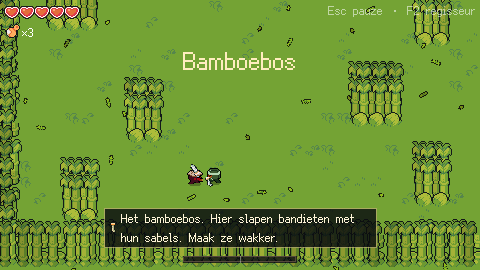
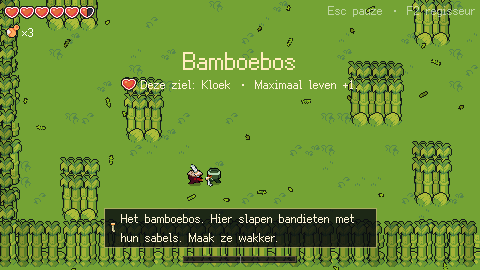
Starter perks: each new soul gets one minor seeded trait
Hale, Sturdy, Even Breath, Spare Sip or Steady Hand: weaker forms of existing upgrades,
picked from the soul's seed (as the tint is), using the upgrades' icons. Shown once under
the area title and listed in the run summary; en/nl/zh_CN; numbers in run.tres.
StarterPerks unit tests; run_continue checks both souls; run_bamboo and summary_loss
screens regenerated.

Claude-Session: https://claude.ai/code/session_01AfcAfqa33AD2jS3FNB8M79

Changed region(s): [[0.25, 0.2667, 0.5, 0.3556], [0.5312, 0.2963, 0.75, 0.3259], [0.1562, 0.0, 0.2188, 0.0889]]

diff --git a/game/scripts/scenarios/RunContinueScenario.cs b/game/scripts/scenarios/RunContinueScenario.cs
@@ -19,6 +19,26 @@ public partial class RunContinueScenario : Scenario
 
     protected override bool FailOnTimeout => true;
 
+    /// <summary>The soul has its seeded perk, applied, recorded and shown under the area title.</summary>
+    private void CheckPerk(string who)
+    {
+        var soulSeed = unchecked(_run.Plan.Seed * 7919 + (DirectorService.Instance?.SoulsFallen ?? 0));
+        Check(_run.Perk == StarterPerks.Pick(soulSeed), $"{who}'s perk is not the seeded one");
+        Check(_run.Stats.Perk == _run.Perk, $"{who}'s perk is not in the run's stats");
+        Check(_run.Hud.PerkShown && _run.Hud.PerkLine.Contains(Ui.PerkText.Name(_run.Perk)), $"{who}'s perk is not shown");
+        var m = _run.Player.Mods;
+        var applied = _run.Perk switch
+        {
+            StarterPerk.Hale => m.HealthBonus >= Tunables.Run.PerkHealth,
+            StarterPerk.Sturdy => m.PostureBonus >= Tunables.Run.PerkPosture,
+            StarterPerk.EvenBreath => m.PostureDrainFactor >= Tunables.Run.PerkBreathFactor - 0.001f,
+            StarterPerk.SpareSip => m.SipsBonus >= Tunables.Run.PerkSips,
+            _ => m.DeflectFactor >= Tunables.Run.PerkDeflectFactor - 0.001f,
+        };
+        Check(applied, $"{who}'s perk {_run.Perk} was not applied");
+        GD.Print($"  {who}: {_run.Hud.PerkLine}");
+    }
+
     protected override void Step(int frame)
     {
         switch (_stage)
@@ -35,6 +55,7 @@ public partial class RunContinueScenario : Scenario
                 Check(_run.Room is { Plan.Area: Area.Outside }, "did not start outside the tavern");
                 _firstTint = _run.Player.Tint;
                 Check(_firstTint != Colors.White, "the soul has no tint");
+                CheckPerk("the first soul");
                 _run.Player.Kill();
                 _stage = 2;
                 return;
@@ -42,6 +63,7 @@ public partial class RunContinueScenario : Scenario
                 if (_run.Summary == null) return;
                 Check(!_run.Stats.Won, "a death ended in a win");
                 Check(_run.Summary.Lines.Any(l => l.Contains(Tr("ui.area.outside"))), "the summary does not say where the next soul starts");
+                Check(_run.Summary.Lines.Any(l => l.Contains(Ui.PerkText.Name(_run.Perk))), "the summary does not list the soul's perk");
                 _run.Retry();
                 Check(RunScene.NextArea == Area.Outside, $"next area is {RunScene.NextArea}");
                 _run.QueueFree();
@@ -59,11 +81,13 @@ public partial class RunContinueScenario : Scenario
                 Check(_run.StepIndex == outsideStart, $"the new soul started at step {_run.StepIndex}, not {outsideStart}");
                 Check(_run.ContinuedFrom == Area.Outside, "the new soul does not know it continues");
                 Check(_run.Stats.Upgrades.SequenceEqual(new[] { Upgrade.Vitality }), "the upgrade was not kept");
-                Check(_run.Player.MaxHealth == Tunables.Player.MaxHealth + Tunables.Run.VitalityHealth, "Vitality's health is missing");
+                var perkHealth = _run.Perk == StarterPerk.Hale ? Tunables.Run.PerkHealth : 0;
+                Check(_run.Player.MaxHealth == Tunables.Player.MaxHealth + Tunables.Run.VitalityHealth + perkHealth, "Vitality's health is missing");
+                CheckPerk("the new soul");
                 Check(RunScene.NextArea == null, "the continuation was not consumed");
                 Check(_run.Player.Tint != _firstTint, "the new soul has the same tint as the last");
                 Check(Mathf.Min(_run.Player.Tint.R, Mathf.Min(_run.Player.Tint.G, _run.Player.Tint.B)) >= 1f - Tunables.Player.SoulTintStrength - 0.01f, "the tint is more than slight");
-                GD.Print($"  new soul at step {_run.StepIndex} ({_run.Room!.Plan.Template.Id}), upgrades {string.Join(",", _run.Stats.Upgrades)}");
+                GD.Print($"  new soul at step {_run.StepIndex} ({_run.Room!.Plan.Template.Id}), upgrades {string.Join(",", _run.Stats.Upgrades)}, perk {_run.Perk}");
                 Pass();
                 return;
         }

diff --git a/game/scripts/Ui/Hud.cs b/game/scripts/Ui/Hud.cs
@@ -21,6 +21,11 @@ public partial class Hud : CanvasLayer
 
     private Label _prompt = null!;
     private Label _area = null!;
+    private HBoxContainer _perk = null!;
+    private double _perkUntilMs;
+    /// <summary>The starter-perk line under the area title is on screen (tests).</summary>
+    public bool PerkShown => _perk.Visible;
+    public string PerkLine { get; private set; } = "";
     private Label _bossName = null!;
     private double _areaUntilMs = -1;
 
@@ -77,6 +82,11 @@ public partial class Hud : CanvasLayer
         _area.GrowHorizontal = Control.GrowDirection.Both;
         _area.Position = new Vector2(0, 44);
         _canvas.AddChild(_area);
+        _perk = new HBoxContainer { Visible = false, MouseFilter = Control.MouseFilterEnum.Ignore };
+        _perk.AddThemeConstantOverride("separation", 4);
+        _perk.AddChild(new TextureRect { StretchMode = TextureRect.StretchModeEnum.KeepCentered, MouseFilter = Control.MouseFilterEnum.Ignore });
+        _perk.AddChild(new Label { AutoTranslateMode = AutoTranslateModeEnum.Disabled, VerticalAlignment = VerticalAlignment.Center });
+        _canvas.AddChild(_perk);
         _bossName = new Label { Text = "combat.boss.name", HorizontalAlignment = HorizontalAlignment.Center, Visible = false, Modulate = new Color(1f, 0.85f, 0.8f) };
         _bossName.GrowHorizontal = Control.GrowDirection.Both;
         _bossName.AddThemeConstantOverride("outline_size", 3);
@@ -93,6 +103,17 @@ public partial class Hud : CanvasLayer
         _areaUntilMs = Time.GetTicksMsec() + (double)Tunables.Run.AreaTitleMs;
     }
 
+    /// <summary>A short line with an icon under the area title: the new soul's starter perk.</summary>
+    public void ShowPerk(Texture2D icon, string text)
+    {
+        ((TextureRect)_perk.GetChild(0)).Texture = icon;
+        ((Label)_perk.GetChild(1)).Text = text;
+        PerkLine = text;
+        _perk.Visible = true;
+        _perk.ResetSize();
+        _perkUntilMs = Time.GetTicksMsec() + (double)Tunables.Run.AreaTitleMs;
+    }
+
     public override void _Process(double delta)
     {
         if (Player == null || !IsInstanceValid(Player)) return;
@@ -106,6 +127,13 @@ public partial class Hud : CanvasLayer
         _area.Position = new Vector2(Mathf.Round((w - _area.Size.X) / 2), 44);
         _prompt.Position = new Vector2(Mathf.Round((w - _prompt.Size.X) / 2), _canvas.Size.Y - 70);
         _prompt.Visible = !Player.IsDead && Player.SpareCandidate() != null;
+        _perk.Position = new Vector2(Mathf.Round((w - _perk.Size.X) / 2), 76);
+        if (_perk.Visible)
+        {
+            var left = _perkUntilMs - Time.GetTicksMsec();
+            _perk.Visible = left > 0;
+            _perk.Modulate = new Color(1f, 0.95f, 0.85f, Mathf.Clamp((float)left / 600f, 0f, 1f));
+        }
         if (_area.Visible)
         {
             var left = _areaUntilMs - Time.GetTicksMsec();

diff --git a/game/scripts/Run/RunScene.cs b/game/scripts/Run/RunScene.cs
@@ -94,8 +94,13 @@ public partial class RunScene : Node2D
         Telemetry.Instance.StartRun();
         GD.Print($"Run seed {seed}");
 
-        // Each new soul looks a little different: its tint is seeded by the run and the souls fallen.
-        Player = new Player { Invulnerable = Invulnerable, Tint = Player.SoulTint(unchecked(seed * 7919 + (DirectorService.Instance?.SoulsFallen ?? 0))) };
+        // Each new soul looks a little different and has one minor trait: both seeded by the run
+        // and the souls fallen.
+        var soulSeed = unchecked(seed * 7919 + (DirectorService.Instance?.SoulsFallen ?? 0));
+        Player = new Player { Invulnerable = Invulnerable, Tint = Player.SoulTint(soulSeed) };
+        Perk = StarterPerks.Pick(soulSeed);
+        ApplyPerk(Perk);
+        Stats.Perk = Perk;
         if (Controls != null) Player.Controls = Controls;
         Player.Died += _ => EndRun(false);
         Player.FinisherLanded += (_, e) => { if (e.IsGone) OnFinished(e); };
@@ -147,6 +152,29 @@ public partial class RunScene : Node2D
             Stats.Take(u);
         }
         if (ContinuedFrom != null) SwordVoice.Say("sword.new_soul");
+        // Shown once, as the soul takes up the sword.
+        Hud.ShowPerk(PerkText.Icon(Perk), Tr("ui.hud.perk").Replace("{perk}", PerkText.Name(Perk)).Replace("{desc}", PerkText.Describe(Perk)));
+    }
+
+    /// <summary>This soul's starter perk.</summary>
+    public StarterPerk Perk { get; private set; }
+
+    /// <summary>
+    /// A perk is a weaker upgrade, applied before the soul first stands in a room (so its health,
+    /// sips and posture bar start full).
+    /// </summary>
+    private void ApplyPerk(StarterPerk p)
+    {
+        var r = Tunables.Run;
+        var m = Player.Mods;
+        switch (p)
+        {
+            case StarterPerk.Hale: m.HealthBonus += r.PerkHealth; break;
+            case StarterPerk.Sturdy: m.PostureBonus += r.PerkPosture; break;
+            case StarterPerk.EvenBreath: m.PostureDrainFactor *= r.PerkBreathFactor; break;
+            case StarterPerk.SpareSip: m.SipsBonus += r.PerkSips; break;
+            case StarterPerk.SteadyHand: m.DeflectFactor *= r.PerkDeflectFactor; break;
+        }
     }
 
     public override void _ExitTree()

diff --git a/game/scripts/Ui/PerkText.cs b/game/scripts/Ui/PerkText.cs
@@ -1,0 +1,33 @@
+using Godot;
+using SwordInTheForest.Run;
+
+namespace SwordInTheForest.Ui;
+
+/// <summary>Names, descriptions (with run.tres numbers) and icons for the starter perks.</summary>
+public static class PerkText
+{
+    public static string Key(StarterPerk p) => p switch
+    {
+        StarterPerk.Hale => "hale",
+        StarterPerk.Sturdy => "sturdy",
+        StarterPerk.EvenBreath => "even_breath",
+        StarterPerk.SpareSip => "spare_sip",
+        _ => "steady_hand",
+    };
+
+    public static string Name(StarterPerk p) => TranslationServer.Translate($"upgrade.perk.{Key(p)}.name");
+
+    public static string Describe(StarterPerk p)
+    {
+        var r = Core.Tunables.Run;
+        static string Pct(float factor) => Mathf.RoundToInt((factor - 1f) * 100f).ToString();
+        return TranslationServer.Translate($"upgrade.perk.{Key(p)}.desc").ToString()
+            .Replace("{health}", r.PerkHealth.ToString())
+            .Replace("{posture}", Mathf.RoundToInt(r.PerkPosture).ToString())
+            .Replace("{pct}", Pct(p == StarterPerk.EvenBreath ? r.PerkBreathFactor : r.PerkDeflectFactor))
+            .Replace("{sips}", r.PerkSips.ToString());
+    }
+
+    /// <summary>The icon of the upgrade the perk echoes (no new art).</summary>
+    public static Texture2D Icon(StarterPerk p) => PixelIcons.For(StarterPerks.Echoes(p));
+}

diff --git a/game/scripts/Tuning/RunTuning.cs b/game/scripts/Tuning/RunTuning.cs
@@ -71,6 +71,18 @@ public partial class RunTuning : Resource
     /// <summary>Taking it again multiplies the cooldown by this.</summary>
     [Export(PropertyHint.Range, "0.1,1,0.05")] public float FlashStepRepeatCooldownFactor { get; set; }
 
+    [ExportGroup("Starter perks")]
+    /// <summary>Each new soul's minor trait, a weaker upgrade: Hale's health...</summary>
+    [Export(PropertyHint.Range, "0,10,1")] public int PerkHealth { get; set; }
+    /// <summary>...Sturdy's posture bar...</summary>
+    [Export(PropertyHint.Range, "0,100,1")] public float PerkPosture { get; set; }
+    /// <summary>...Even Breath's posture recovery factor...</summary>
+    [Export(PropertyHint.Range, "1,3,0.05")] public float PerkBreathFactor { get; set; }
+    /// <summary>...Spare Sip's gourd sips...</summary>
+    [Export(PropertyHint.Range, "0,5,1")] public int PerkSips { get; set; }
+    /// <summary>...and Steady Hand's deflect posture factor.</summary>
+    [Export(PropertyHint.Range, "1,3,0.05")] public float PerkDeflectFactor { get; set; }
+
     [ExportGroup("Food")]
     /// <summary>Chance that a defeated enemy (not the tutorial ghost or the boss) drops food.</summary>
     [Export(PropertyHint.Range, "0,1,0.01")] public float FoodDropChance { get; set; }

diff --git a/tests/Combat.Tests/StarterPerksTests.cs b/tests/Combat.Tests/StarterPerksTests.cs
@@ -1,0 +1,36 @@
+using SwordInTheForest.Run;
+
+namespace Combat.Tests;
+
+public class StarterPerksTests
+{
+    [Fact]
+    public void SameSoul_SamePerk()
+    {
+        for (var s = -50; s < 50; s++) Assert.Equal(StarterPerks.Pick(s), StarterPerks.Pick(s));
+    }
+
+    [Fact]
+    public void EveryPerk_Comes_AboutEquallyOften()
+    {
+        var counts = new int[StarterPerks.All.Length];
+        const int n = 20000;
+        for (var s = 0; s < n; s++) counts[(int)StarterPerks.Pick(unchecked(s * 7919 + s % 3))]++;
+        foreach (var c in counts) Assert.InRange(c / (double)n, 0.16, 0.24);
+    }
+
+    [Fact]
+    public void ConsecutiveSouls_DoNotAllShareOnePerk()
+    {
+        // Souls of one run differ by the number fallen (seed * 7919 + fallen).
+        var perks = new HashSet<StarterPerk>();
+        for (var fallen = 0; fallen < 6; fallen++) perks.Add(StarterPerks.Pick(7 * 7919 + fallen));
+        Assert.True(perks.Count > 1);
+    }
+
+    [Fact]
+    public void EachPerk_EchoesADistinctUpgrade()
+    {
+        Assert.Equal(StarterPerks.All.Length, StarterPerks.All.Select(StarterPerks.Echoes).Distinct().Count());
+    }
+}

diff --git a/src/Combat/Run/StarterPerks.cs b/src/Combat/Run/StarterPerks.cs
@@ -1,0 +1,26 @@
+using System;
+
+namespace SwordInTheForest.Run
+{
+    /// <summary>Picks each new soul's <see cref="StarterPerk"/> from the soul's seed (the one its tint uses).</summary>
+    public static class StarterPerks
+    {
+        public static readonly StarterPerk[] All = (StarterPerk[])Enum.GetValues(typeof(StarterPerk));
+
+        /// <summary>
+        /// The perk for the soul with <paramref name="soulSeed"/>. Its own stream (the seed is mixed
+        /// first), so the perk does not follow the tint's hue.
+        /// </summary>
+        public static StarterPerk Pick(int soulSeed) => All[new Random(unchecked(soulSeed * 31 + 11)).Next(All.Length)];
+
+        /// <summary>The upgrade whose effect (and icon) the perk borrows.</summary>
+        public static Upgrade Echoes(StarterPerk p) => p switch
+        {
+            StarterPerk.Hale => Upgrade.Vitality,
+            StarterPerk.Sturdy => Upgrade.BroadStance,
+            StarterPerk.EvenBreath => Upgrade.SteadyBreath,
+            StarterPerk.SpareSip => Upgrade.DeepGourd,
+            _ => Upgrade.IronDeflect,
+        };
+    }
+}

diff --git a/src/Combat/Run/StarterPerk.cs b/src/Combat/Run/StarterPerk.cs
@@ -1,0 +1,20 @@
+namespace SwordInTheForest.Run
+{
+    /// <summary>
+    /// A new soul's minor trait: a weaker form of one sword-intent upgrade, picked once per soul
+    /// (see <see cref="StarterPerks"/>).
+    /// </summary>
+    public enum StarterPerk
+    {
+        /// <summary>A little more health (Vitality, smaller).</summary>
+        Hale,
+        /// <summary>A slightly larger posture bar (Broad Stance, smaller).</summary>
+        Sturdy,
+        /// <summary>Posture recovers a little faster (Steady Breath, smaller).</summary>
+        EvenBreath,
+        /// <summary>One more gourd sip per area (Deep Gourd).</summary>
+        SpareSip,
+        /// <summary>Deflects deal a little more posture damage (Iron Deflect, smaller).</summary>
+        SteadyHand,
+    }
+}

diff --git a/game/scripts/Ui/SummaryScreen.cs b/game/scripts/Ui/SummaryScreen.cs
@@ -71,6 +71,8 @@ public partial class SummaryScreen : CanvasLayer
         Add(stack, Fill("summary.souls", ("deaths", _soulsFallen)));
         Add(stack, Fill("summary.rooms", ("rooms", _stats.RoomsCleared), ("total", _totalRooms))
             + "   " + Tr("summary.time").Replace("{time}", $"{(int)t.TotalMinutes}:{t.Seconds:00}"));
+        if (_stats.Perk is Run.StarterPerk perk)
+            Add(stack, Tr("summary.perk").Replace("{perk}", PerkText.Name(perk)));
         if (_stats.Upgrades.Count > 0)
             Add(stack, Tr("summary.upgrades").Replace("{list}", string.Join(", ", _stats.Upgrades.Select(u => Tr($"upgrade.{UpgradeScreen.Key(u)}.name")))));
         stack.AddChild(new Control { CustomMinimumSize = new Vector2(0, 4) });

diff --git a/src/Combat/Run/RunStats.cs b/src/Combat/Run/RunStats.cs
@@ -21,6 +21,8 @@ namespace SwordInTheForest.Run
         public bool Won { get; private set; }
         public double ElapsedMs { get; set; }
         public IReadOnlyList<Upgrade> Upgrades => _upgrades;
+        /// <summary>This soul's starter perk (none in drills and test arenas).</summary>
+        public StarterPerk? Perk { get; set; }
 
         /// <summary>Merit was gained (the game shows a gold glitter instead of a counter).</summary>
         public event Action? MeritGained;

diff --git a/PROGRESS.md b/PROGRESS.md
@@ -3,7 +3,7 @@
 ## M5 follow-up · Polish after v0.1.0 (2026-11-05)
 
 Eight items, one commit each, on `claude/blissful-rubin-xy8iln` (pull request to main; no new
-tag). Unit tests: 179 pass (Combat 141, Director 35, Localization 3). Scenarios: 32 pass
+tag). Unit tests: 183 pass (Combat 145, Director 35, Localization 3). Scenarios: 32 pass
 (new: `food_drop`, `flash_step`, `upgrade_extras`; `run_fake` and `settings` check more).
 
 ### Done
@@ -34,9 +34,17 @@ tag). Unit tests: 179 pass (Combat 141, Director 35, Localization 3). Scenarios:
    centre above the sword's text box (four-line Dutch cards used to touch it). The
    `RunUpgrade` screenshot uses seed 175, which offers all three new upgrades.
 8. This entry, and M5 item 7 marked done below.
+9. **Starter perks** (follow-up). Each new soul, on a fresh run or as "New soul", gets one
+   minor trait, seeded like its tint (run seed and souls fallen): **Hale** (体健, max health +1),
+   **Sturdy** (站稳, posture bar +15), **Even Breath** (匀息, posture recovers 25% faster),
+   **Spare Sip** (余酒, +1 gourd sip per area) or **Steady Hand** (稳手, deflects +15% posture
+   damage). Each is a weaker form of an upgrade and uses that upgrade's icon. It shows once under
+   the area title as the soul takes up the sword, and the run summary lists it ("Soul's gift").
+   Numbers in run.tres (`Perk*`); `StarterPerks` unit tests; `run_continue` checks both souls.
 
 ### For your Chinese review (new lines)
-`combat.food.{rice,braised_beef,roast_chicken,eaten}`, `upgrade.flash_step.*`
+Starter perks: `upgrade.perk.*` (体健, 站稳, 匀息, 余酒, 稳手), `ui.hud.perk` (此魂：…),
+`summary.perk` (游魂天赋). `combat.food.{rice,braised_beef,roast_chicken,eaten}`, `upgrade.flash_step.*`
 (瞬步 / 一步穿敌而斩), `upgrade.dread.*` (余威 / 补刀震慑身旁敌人), `upgrade.still_water.*`
 (止水 / 弹反时自身架势少涨). Dutch: Flitsstap, Ontzag, Stil Water.
 
@@ -61,6 +69,8 @@ tag). Unit tests: 179 pass (Combat 141, Director 35, Localization 3). Scenarios:
    combo.
 
 ### Questions for the playtest
+- Starter perks: noticeable enough to feel like a different soul, or too mild? Should the
+  sword comment on them?
 - Is 12% too rare or too common? Should food also heal posture?
 - Flash step: 64 px and 5 s right? Should it dodge too (then it must tell the director)?
 - Should the first fake's grab be even slower than 1 s, or slower only in the bamboo forest?
